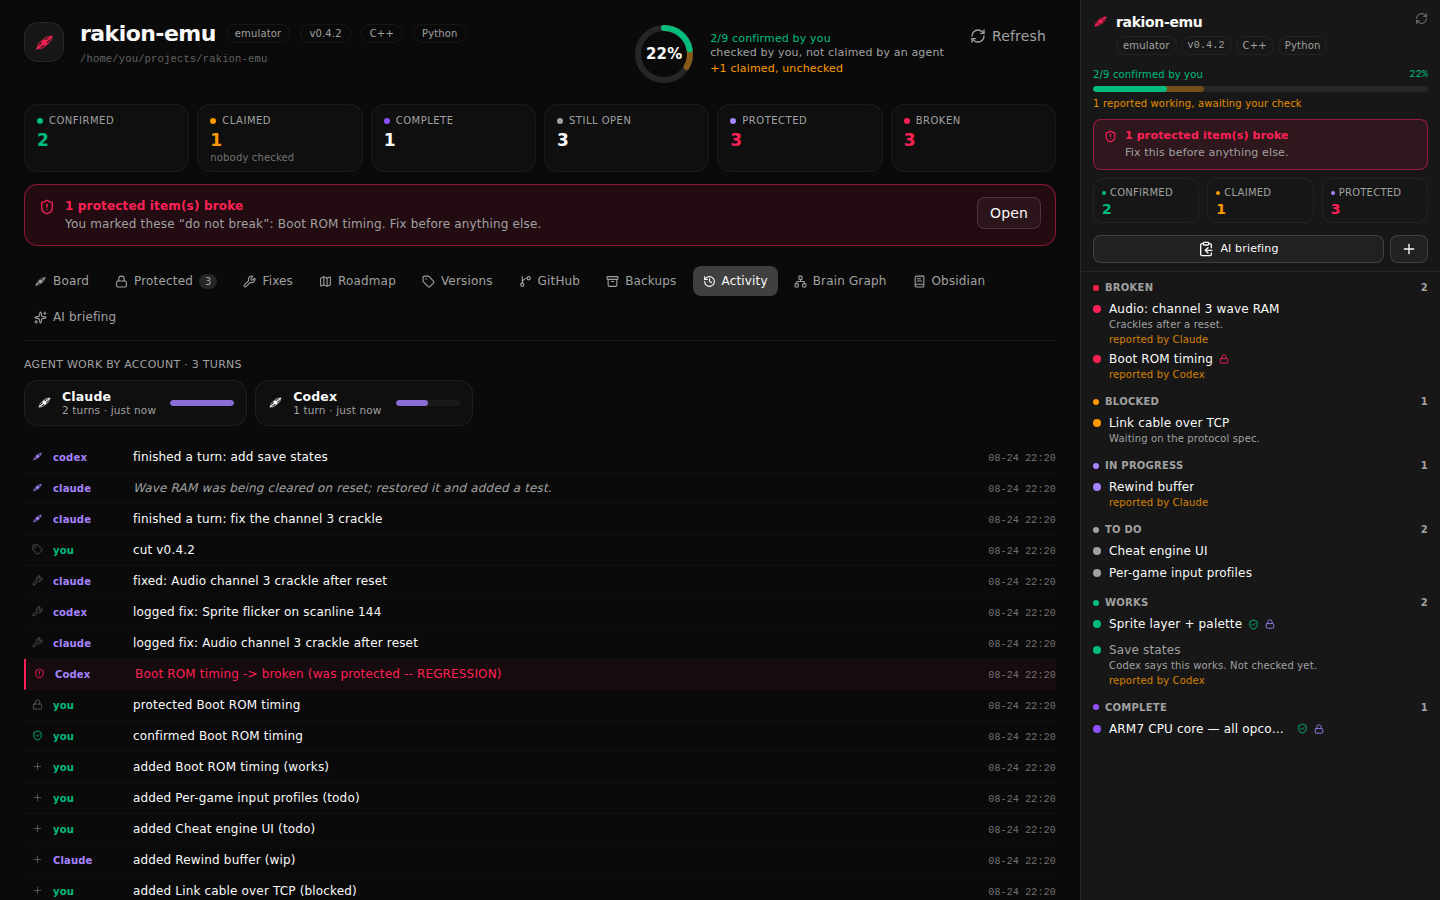
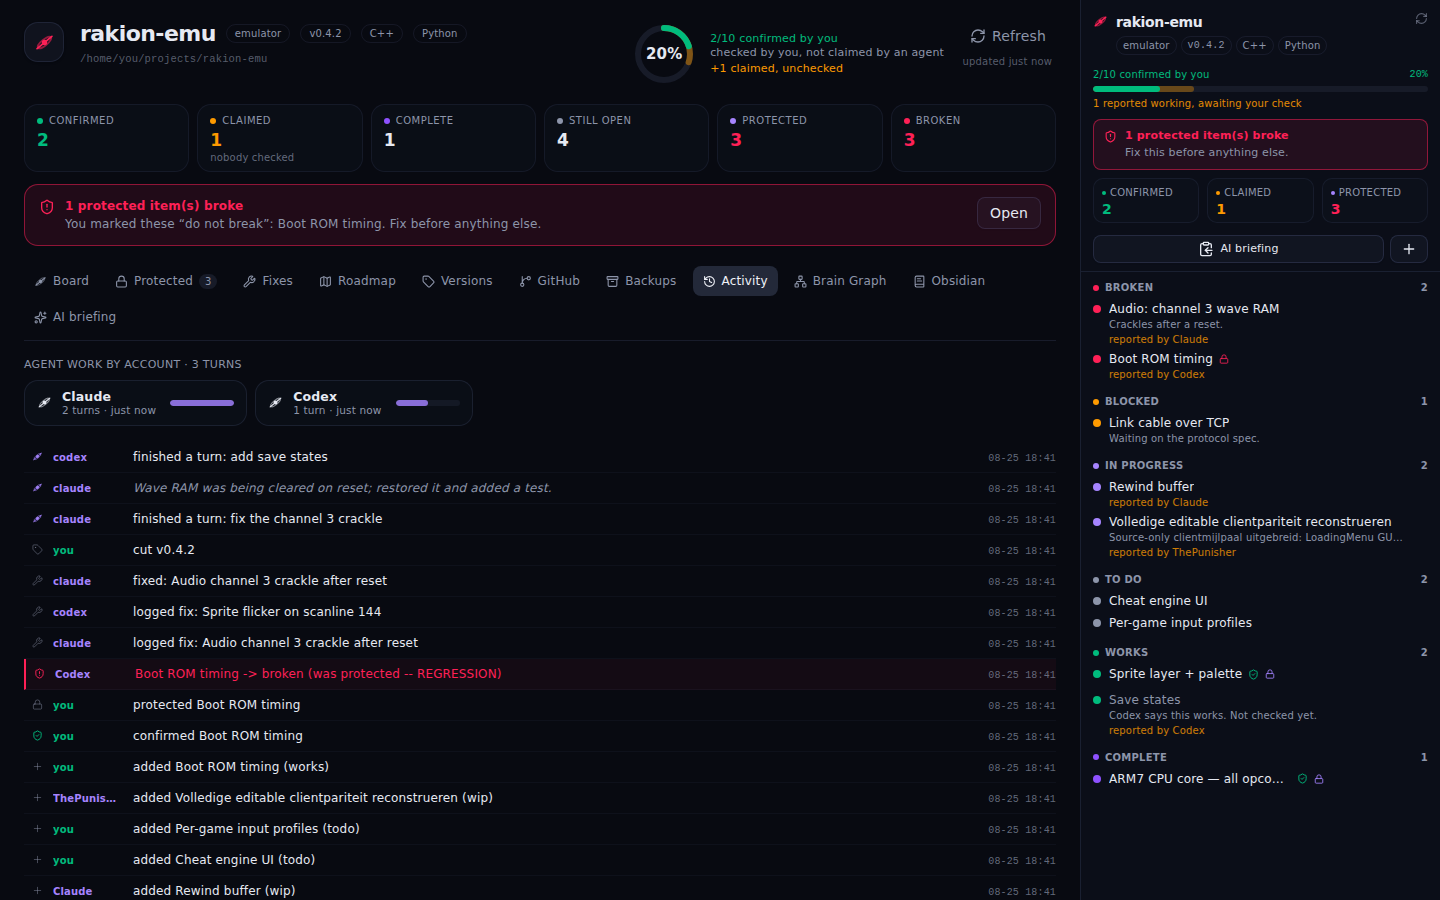
IDE v0.24.0: a theme of our own, and a Refresh button that shows it works
Three things the board was actually getting wrong, found from a real project's
screenshot rather than the fixture.

1. Refresh looked dead. It was not: it re-read state.json every time. But it had
   no spinner, no timestamp and no toast, so a refresh that found nothing new
   changed literally nothing on screen -- indistinguishable from a broken
   button. The icon now spins while it re-reads and the header carries an
   "updated <when>" stamp that resets, so a no-op refresh is still visibly a
   refresh. Same treatment for the sidebar's icon-only copy.

2. Cards were walls of text. item.notes rendered unclamped, so an agent that
   wrote fifteen lines into one card turned a 252px column into a vertical
   ribbon of prose and pushed the rest of the board off-screen. Titles clamp to
   three lines and notes to two; nothing is lost, since the full text is the
   tooltip and clicking the card opens it.

   The reason this shipped at all: the design harness fixture only ever held
   one-line notes, so the board always looked tidy here. It now carries a
   realistic long-note card, so this class of problem is visible in a
   screenshot instead of only in production.

3. Wasted space everywhere. The hover action row used opacity-0, which still
   occupies its row -- ~28px of dead space reserved in every card, making a
   one-line card as tall as a three-line one. It collapses now. Columns went
   252 -> 304px, and the page container went from max-w-6xl (1152px) to 1600px:
[…]

diff --git a/ide/overlay/src/renderer/src/components/planide/PlanIdeView.tsx b/ide/overlay/src/renderer/src/components/planide/PlanIdeView.tsx
@@ -741,14 +741,20 @@ function ItemCard({
             )}
           />
         </button>
+        {/* Clamped on purpose. Agents write long notes -- a single ORDER2 card
+            carried fifteen lines of prose, which in a kanban column turns every
+            card into a wall of text and pushes the rest of the board off-screen.
+            Nothing is lost: the full text is the tooltip, and clicking the card
+            opens it in the editor. */}
         <button
           type="button"
           onClick={() => onEdit(item)}
           className="min-w-0 flex-1 text-left"
+          title={item.notes ? `${item.title}\n\n${item.notes}` : item.title}
         >
-          <div className="text-[13px] leading-snug">{item.title}</div>
+          <div className="line-clamp-3 text-[13px] font-medium leading-snug">{item.title}</div>
           {item.notes && (
-            <div className="mt-0.5 text-[11px] leading-snug text-muted-foreground">
+            <div className="mt-1 line-clamp-2 text-[11px] leading-relaxed text-muted-foreground">
               {item.notes}
             </div>
           )}
@@ -764,8 +770,11 @@ function ItemCard({
       </div>
       <ItemBadges item={item} />
       {/* Orca hides row actions until hover and keeps them visible on touch
-          (its own `can-hover:` variant); the board follows that. */}
-      <div className="mt-2 flex flex-wrap gap-1.5 can-hover:opacity-0 can-hover:transition-opacity can-hover:group-focus-within:opacity-100 can-hover:group-hover:opacity-100">
+          (its own `can-hover:` variant); the board follows that. Collapsed to
+          zero height too, not just transparent: opacity-0 still occupies its
+          row, which reserved ~28px of dead space in every card and made a
+          one-line card as tall as a three-line one. */}
+      <div className="flex flex-wrap gap-1.5 pt-2 can-hover:max-h-0 can-hover:overflow-hidden can-hover:pt-0 can-hover:opacity-0 can-hover:transition-all can-hover:group-focus-within:max-h-16 can-hover:group-focus-within:pt-2 can-hover:group-focus-within:opacity-100 can-hover:group-hover:max-h-16 can-hover:group-hover:pt-2 can-hover:group-hover:opacity-100">
         {working && (
           <button
             type="button"
@@ -816,6 +825,11 @@ export default function PlanIdeView(): React.JSX.Element {
   const [briefing, setBriefing] = useState('')
   const [memory, setMemory] = useState<MemoryStatus | null>(null)
   const [memoryLoading, setMemoryLoading] = useState(false)
+  // Refresh feedback: see refresh() below for why a no-op refresh still has to
+  // show something.
+  const [refreshing, setRefreshing] = useState(false)
+  const [loadedAt, setLoadedAt] = useState<number | null>(null)
+  const [, setNowTick] = useState(0)
 
   // quick capture
   const [qTitle, setQTitle] = useState('')
@@ -829,6 +843,7 @@ export default function PlanIdeView(): React.JSX.Element {
     setError(null)
     try {
       setProject(await openProject(path))
+      setLoadedAt(Date.now())
     } catch (err) {
       setProject(null)
       setError(err instanceof Error ? err.message : String(err))
@@ -846,14 +861,32 @@ export default function PlanIdeView(): React.JSX.Element {
   }, [worktreePath, load])
 
 
+  /**
+   * Re-read the board. `refreshing` and `loadedAt` exist for one reason: a
+   * refresh that finds nothing new used to change literally nothing on screen,
+   * so the button read as broken ("doet geen moer") even though it had just
+   * re-read the file. Now the icon spins while it works and the timestamp next
+   * to it resets, so a no-op refresh still visibly happened.
+   */
   const refresh = useCallback(async () => {
     if (!worktreePath) return
+    setRefreshing(true)
     try {
       setProject(await openProject(worktreePath))
+      setLoadedAt(Date.now())
     } catch (err) {
       toast.error(err instanceof Error ? err.message : String(err))
+    } finally {
+      setRefreshing(false)
     }
   }, [worktreePath])
+
+  // Re-tick the "updated" label so it ages in place instead of freezing at
+  // "just now" until the next refresh.
+  useEffect(() => {
+    const id = setInterval(() => setNowTick(Date.now()), 15_000)
+    return () => clearInterval(id)
+  }, [])
 
   // Live: the main process watches this project's state.json, so an agent
   // writing the board updates what you are looking at, with nothing to press.
@@ -1010,7 +1043,11 @@ export default function PlanIdeView(): React.JSX.Element {
 
   return (
     <div className="flex min-h-0 flex-1 flex-col overflow-y-auto">
-      <div className="mx-auto w-full max-w-6xl px-6 py-5">
+      {/* Wider than a reading column on purpose: a six-column board inside
+          max-w-6xl (1152px) had ~1100px for ~1800px of columns, so it always
+          scrolled and the last column sat half-cut at the edge. Still capped, so
+          it does not sprawl on an ultrawide. */}
+      <div className="mx-auto w-full max-w-[1600px] px-6 py-5">
         {/* identity — the mark, the project, and the one number that matters */}
         <header className="flex flex-wrap items-start gap-x-4 gap-y-3">
           {/* The glyph, not the full badge: the app icon is a dark tile with fine
@@ -1038,14 +1075,23 @@ export default function PlanIdeView(): React.JSX.Element {
             </div>
           </div>
           <ConfirmedRing progress={p} />
-          <Button
-            size="sm"
-            variant="ghost"
-            className="shrink-0 text-muted-foreground"
-            onClick={() => void refresh()}
-          >
-            <RefreshCw size={13} /> {translate('planide.view.refresh', 'Refresh')}
-          </Button>
+          <div className="flex shrink-0 flex-col items-end gap-0.5">
+            <Button
+              size="sm"
+              variant="ghost"
+              className="text-muted-foreground"
+              onClick={() => void refresh()}
+              disabled={refreshing}
+            >
+              <RefreshCw size={13} className={cn(refreshing && 'animate-spin')} />{' '}
+              {translate('planide.view.refresh', 'Refresh')}
+            </Button>
+            {loadedAt !== null && (
+              <span className="pr-1 text-[10px] text-muted-foreground/60">
+                {translate('planide.view.updated', 'updated')} {relTimeMs(loadedAt)}
+              </span>
+            )}
+          </div>
         </header>
 
         <div className="mt-4 grid grid-cols-2 gap-2 sm:grid-cols-3 lg:grid-cols-6">
@@ -1221,7 +1267,7 @@ export default function PlanIdeView(): React.JSX.Element {
                 return (
                   <div
                     key={col.id}
-                    className="flex w-[252px] shrink-0 snap-start flex-col overflow-hidden rounded-xl border border-border/60 bg-card/20"
+                    className="flex w-[304px] shrink-0 snap-start flex-col overflow-hidden rounded-xl border border-border/60 bg-card/20"
                   >
                     <div className={cn('h-[3px] w-full opacity-70', col.dot)} />
                     <div className="flex min-h-0 flex-col p-2.5">
@@ -1230,7 +1276,7 @@ export default function PlanIdeView(): React.JSX.Element {
                         {col.label}
                         <span className="ml-auto tabular-nums">{items.length}</span>
                       </div>
-                      <div className="flex max-h-[calc(100vh-22rem)] flex-col gap-2 overflow-y-auto pr-0.5">
+                      <div className="flex max-h-[calc(100vh-22rem)] min-h-[220px] flex-col gap-2 overflow-y-auto pr-0.5">
                         {items.map((item) => (
                           <ItemCard
                             key={item.id}

diff --git a/ide/overlay/src/renderer/src/assets/pulsar-theme.css b/ide/overlay/src/renderer/src/assets/pulsar-theme.css
@@ -1,0 +1,117 @@
+/*
+ * PulsarIDE's own theme.
+ *
+ * Orca ships a neutral grey/blue palette. This is the identity the app is
+ * actually named for: a neutron star — near-black space, and two beams (blue
+ * #8ab4ff, violet #b39bff) that the logo, the tracker accents and the charts
+ * all share.
+ *
+ * How this works, and why it is safe: it only re-declares Orca's own design
+ * tokens. Nothing upstream is edited or removed — this file is imported *after*
+ * `main.css`, and because `:root` and `.dark` have identical specificity, the
+ * later declaration wins. The block order here mirrors Orca's (`:root` then
+ * `.dark`) so dark mode still overrides light, exactly as before.
+ *
+ * Deliberately NOT re-declared: the semantic colours Orca tuned for meaning and
+ * contrast — git decoration colours, status-success, agent-question, the
+ * security-mode palette, terminal title bars. Those encode information, not
+ * branding, and repainting them would cost legibility for no identity gain.
+ */
+
+/* ── Light ───────────────────────────────────────────── */
+:root {
+  --background: #fafbff;
+  --editor-surface: #ffffff;
+  --foreground: #101320;
+  --card: #ffffff;
+  --card-foreground: #101320;
+  --popover: #ffffff;
+  --popover-foreground: #101320;
+  --primary: #3055c8;
+  --primary-foreground: #ffffff;
+  --secondary: #eef1fb;
+  --secondary-foreground: #1b2233;
+  --muted: #f1f4fc;
+  --muted-foreground: #5f6879;
+  --accent: #e7edfc;
+  --accent-foreground: #1b2233;
+  --border: #e0e6f5;
+  --input: #d9e1f2;
+  --ring: #7592d8;
+
+  --sidebar: #f3f6fd;
+  --sidebar-foreground: #101320;
+  --sidebar-primary: #3055c8;
+  --sidebar-primary-foreground: #ffffff;
+  --sidebar-accent: #e7edfc;
+  --sidebar-accent-foreground: #1b2233;
+  --sidebar-border: #e0e6f5;
+  --sidebar-ring: #7592d8;
+
+  --worktree-sidebar: #eef2fc;
+  --worktree-sidebar-foreground: #101320;
+  --worktree-sidebar-accent: #e2eafb;
+  --worktree-sidebar-accent-foreground: #1b2233;
+  --worktree-sidebar-border: #e0e6f5;
+  --worktree-sidebar-ring: #7592d8;
+
+  /* The violet beam: Orca uses this for AI-initiated actions. */
+  --ai-action-accent: #7c5cf0;
+
+  /* Charts ramp along the two beams instead of a single blue. */
+  --chart-1: #9cc0ff;
+  --chart-2: #6f9df6;
+  --chart-3: #3055c8;
+  --chart-4: #7c5cf0;
+  --chart-5: #5b3fc4;
+}
+
+/* ── Dark: the identity ──────────────────────────────── */
+.dark {
+  --background: #080a11;
+  --editor-surface: #0b0e17;
+  --foreground: #e6e9f2;
+  --card: #10131e;
+  --card-foreground: #e6e9f2;
+  --popover: #141826;
+  --popover-foreground: #e6e9f2;
+  --primary: #8ab4ff;
+  --primary-foreground: #08111f;
+  --secondary: #1a1f30;
+  --secondary-foreground: #dfe4f0;
+  --muted: #171b28;
+  --muted-foreground: #8d95aa;
+  --accent: #232939;
+  --accent-foreground: #f0f2f8;
+  --border: rgb(158 178 255 / 0.11);
+  --input: rgb(158 178 255 / 0.14);
+  --ring: #6f8fd8;
+
+  --sidebar: #0b0e18;
+  --sidebar-foreground: #e6e9f2;
+  --sidebar-primary: #8ab4ff;
+  --sidebar-primary-foreground: #08111f;
+  --sidebar-accent: #1b2030;
+  --sidebar-accent-foreground: #f0f2f8;
+  --sidebar-border: rgb(158 178 255 / 0.10);
+  --sidebar-ring: #5f7cc0;
+
+  --worktree-sidebar: #0e121c;
+  --worktree-sidebar-foreground: #e6e9f2;
+  --worktree-sidebar-accent: #1b2030;
+  --worktree-sidebar-accent-foreground: #f0f2f8;
+  --worktree-sidebar-border: rgb(158 178 255 / 0.10);
+  --worktree-sidebar-ring: #5f7cc0;
+
+  --ai-action-accent: #b39bff;
+
+  --chart-1: #c3d5ff;
+  --chart-2: #8ab4ff;
+  --chart-3: #6f8fd8;
+  --chart-4: #b39bff;
+  --chart-5: #8a6ff0;
+
+  /* Pane dividers read as structure, not dirt, on a blue-black ground. */
+  --tab-group-split-divider: #414d68;
+  --tab-group-split-divider-strong: #55617e;
+}

diff --git a/ide/overlay/src/renderer/src/components/right-sidebar/PlanIdePanel.tsx b/ide/overlay/src/renderer/src/components/right-sidebar/PlanIdePanel.tsx
@@ -123,6 +123,7 @@ export default function PlanIdePanel(): React.JSX.Element {
   const [project, setProject] = useState<PlanIdeProject | null>(null)
   const [loading, setLoading] = useState(false)
   const [error, setError] = useState<string | null>(null)
+  const [refreshing, setRefreshing] = useState(false)
   const [adding, setAdding] = useState(false)
   const [draft, setDraft] = useState('')
 
@@ -153,12 +154,21 @@ export default function PlanIdePanel(): React.JSX.Element {
   }, [worktreePath, load])
 
 
+  /**
+   * `refreshing` is not decoration: without it a refresh that finds nothing new
+   * changed nothing on screen at all, so the button read as dead. The icon now
+   * spins while it re-reads, which is the whole feedback this control has room
+   * for in the sidebar.
+   */
   const refresh = useCallback(async () => {
     if (!worktreePath) return
+    setRefreshing(true)
     try {
       setProject(await openProject(worktreePath))
     } catch (err) {
       setError(err instanceof Error ? err.message : String(err))
+    } finally {
+      setRefreshing(false)
     }
   }, [worktreePath])
 
@@ -317,10 +327,11 @@ export default function PlanIdePanel(): React.JSX.Element {
           <button
             type="button"
             onClick={() => void refresh()}
+            disabled={refreshing}
             className="shrink-0 text-muted-foreground/60 transition-colors hover:text-foreground"
             aria-label={translate('planide.panel.refresh', 'Refresh tracker')}
           >
-            <RefreshCw size={13} />
+            <RefreshCw size={13} className={cn(refreshing && 'animate-spin')} />
           </button>
         </div>
 

diff --git a/ide/design/harness.tsx b/ide/design/harness.tsx
@@ -46,6 +46,21 @@ mk('Rewind buffer', 'wip', { by: 'Claude' })
 mk('Cheat engine UI', 'todo')
 mk('Per-game input profiles', 'todo')
 
+// A card the way an agent really writes one. The fixture used to hold only
+// one-line notes, so the board always looked tidy here while a real project's
+// board -- where an agent had written fifteen lines into a single card -- was a
+// wall of text in a narrow column. Keep at least one of these: an unrealistic
+// fixture is how that shipped unnoticed.
+mk('Volledige editable clientpariteit reconstrueren', 'wip', {
+  by: 'ThePunisher',
+  notes:
+    'Source-only clientmijlpaal uitgebreid: LoadingMenu GUI-data, BSprite-geometrie, ' +
+    'ETC/PVR en shadercontract renderen op Android; progressbar-kleuren/states zijn ' +
+    'editable en runtime gekoppeld; host/Android/capturetests groen. Exacte developer ' +
+    'source blijft niet recoverable; algemene UI state/input/animatie, editor export, ' +
+    'gameplay, 3D runtime, audio en iOS/PC blijven open.'
+})
+
 // a regression: protected work that broke
 const regressed = store.addItem(state, { title: 'Boot ROM timing', status: 'works' })
 store.verifyItem(state, regressed.id, true)

diff --git a/ide/apply.py b/ide/apply.py
@@ -109,6 +109,22 @@ EDITS: list[tuple[str, str, str, str]] = [
         "    artifactName: 'pulsar-macos-${arch}.${ext}'",
         "macOS artifact filename",
     ),
+    # ---- branding: the PulsarIDE theme ----------------------------------- #
+    # Imported straight after Orca's own stylesheet in BOTH renderer entry
+    # points (the main window and the pop-out), so a popped-out panel is not
+    # left wearing Orca's palette.
+    (
+        "src/renderer/src/main.tsx",
+        "import './assets/main.css'",
+        "import './assets/main.css'\nimport './assets/pulsar-theme.css'",
+        "PulsarIDE theme (main window)",
+    ),
+    (
+        "src/renderer/src/popout.tsx",
+        "import './assets/main.css'",
+        "import './assets/main.css'\nimport './assets/pulsar-theme.css'",
+        "PulsarIDE theme (pop-out window)",
+    ),
     # ---- integration: the sidebar tab ------------------------------------ #
     (
         "src/shared/ui-chrome-types.ts",
@@ -428,6 +444,10 @@ OVERLAY_FILES = [
     "src/renderer/src/components/planide/PlanIdeMark.tsx",
     "src/renderer/src/components/planide/PlanIdeSync.tsx",
     "src/renderer/src/components/planide/PlanIdeBackups.tsx",
+    # The PulsarIDE theme: re-declares Orca's own design tokens (nothing
+    # upstream is edited). Imported after main.css by the two renderer entry
+    # points below, so the later declaration wins.
+    "src/renderer/src/assets/pulsar-theme.css",
     # Branding: these replace Orca's own icons, so the packaged app, its
     # installer, the dock and the taskbar all wear the PlanIDE mark. Generated
     # from assets/icon.svg by ide/design/make-icons.mjs -- edit the SVG, re-run

diff --git a/CHANGELOG.md b/CHANGELOG.md
@@ -6,6 +6,26 @@ PlanIDE is [Orca](https://github.com/stablyai/orca) with a project tracker built
 into it — the same parallel-agent IDE, plus a board that knows what works, what
 is broken, what must not be touched, and what the agents have been doing.
 
+## [0.24.0] - 2026-08-25
+
+### Added
+- **A theme of our own.** The IDE no longer wears Orca's grey. Deep blue-black,
+  with the two beams from the logo — blue and violet — running through buttons,
+  focus rings, charts and the sidebar. Light mode gets the same identity in
+  daylight. Nothing upstream was edited: it re-declares the same design tokens.
+
+### Fixed
+- **Refresh now shows it did something.** It always re-read the board — but a
+  refresh that found nothing new changed nothing on screen, so the button looked
+  dead. It spins while it works now, and the tracker says when it last updated.
+  Same fix in the sidebar.
+- **Cards stopped being walls of text.** An agent writing fifteen lines of notes
+  turned one card into a full column. Titles and notes are clamped now; the full
+  text is still there on hover and when you open the card.
+- **The board uses the space it has.** Cards no longer reserve room for buttons
+  you cannot see, columns are wider, and the page is no longer squeezed into a
+  1152px reading column, so a six-column board is not cut off at the edge.
+
 ## [0.23.0] - 2026-08-25
 
 ### Changed
